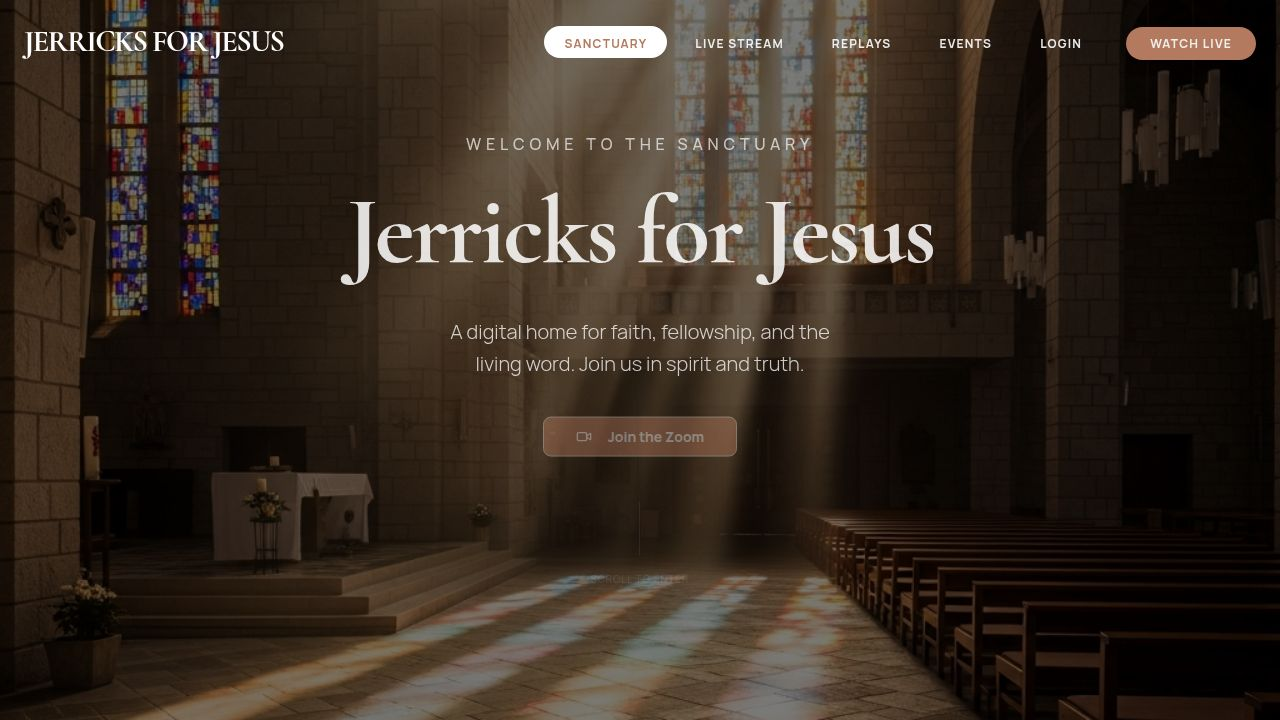
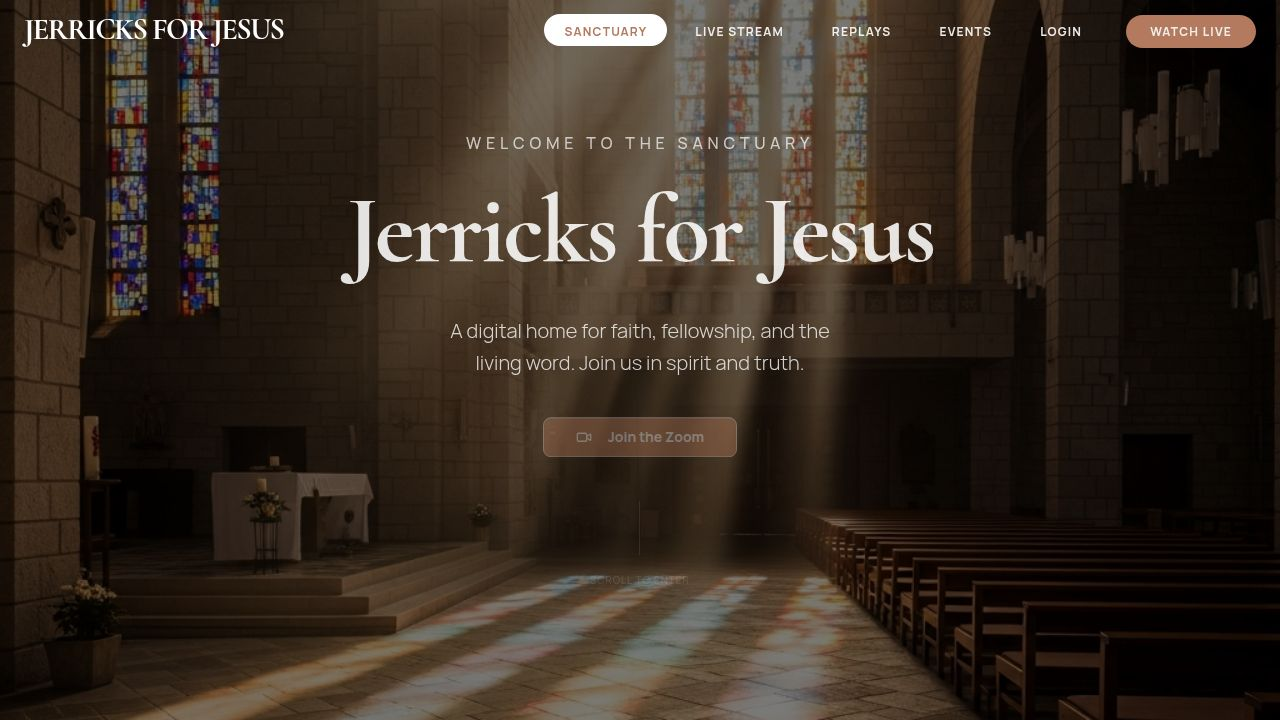
Ensure mobile navigation bar has a consistent background color
Update mobile navigation bar styling to maintain a solid background and dark text/icon colors regardless of scroll position, while preserving desktop scroll-based background and text color changes.

Replit-Commit-Author: Agent
Replit-Commit-Session-Id: a2484f01-f126-4353-ab8c-0d7507b360d1
Replit-Commit-Checkpoint-Type: full_checkpoint
Replit-Commit-Event-Id: 661231a3-045e-4113-ad97-235339ee8344
Replit-Commit-Screenshot-Url: https://storage.googleapis.com/screenshot-production-us-central1/38b0b6c2-369f-4a55-bdde-b0b89249750f/a2484f01-f126-4353-ab8c-0d7507b360d1/I73akgB

diff --git a/client/src/components/Navigation.tsx b/client/src/components/Navigation.tsx
@@ -64,7 +64,9 @@ export function Navigation() {
     <nav
       className={cn(
         "fixed top-0 left-0 right-0 z-50 transition-all duration-500 ease-in-out px-6 py-3",
-        isScrolled ? "bg-background md:bg-background/90 md:backdrop-blur-md shadow-sm" : "bg-transparent"
+        // Mobile: always solid background. Desktop: transparent until scrolled
+        "bg-background md:bg-transparent",
+        isScrolled && "md:bg-background/90 md:backdrop-blur-md md:shadow-sm"
       )}
     >
       <div className="max-w-7xl mx-auto flex justify-between items-center">
@@ -72,7 +74,9 @@ export function Navigation() {
           <span 
             className={cn(
               "cursor-pointer font-serif text-2xl md:text-3xl font-bold tracking-tighter hover:opacity-80 transition-colors duration-300",
-              useLightText && !isScrolled ? "text-white" : "text-foreground"
+              // Mobile: always dark text. Desktop: light text on transparent, dark when scrolled
+              "text-foreground",
+              useLightText && !isScrolled && "md:text-white"
             )}
             onClick={() => window.scrollTo({ top: 0, behavior: "smooth" })}
           >JERRICKS FOR JESUS</span>
@@ -119,12 +123,9 @@ export function Navigation() {
           </Link>
         </div>
 
-        {/* Mobile Menu Toggle */}
+        {/* Mobile Menu Toggle - always dark since mobile has solid background */}
         <button
-          className={cn(
-            "md:hidden transition-colors duration-300",
-            useLightText && !isScrolled ? "text-white" : "text-foreground"
-          )}
+          className="md:hidden transition-colors duration-300 text-foreground"
           onClick={() => setMobileMenuOpen(!mobileMenuOpen)}
         >
           {mobileMenuOpen ? <X /> : <Menu />}
